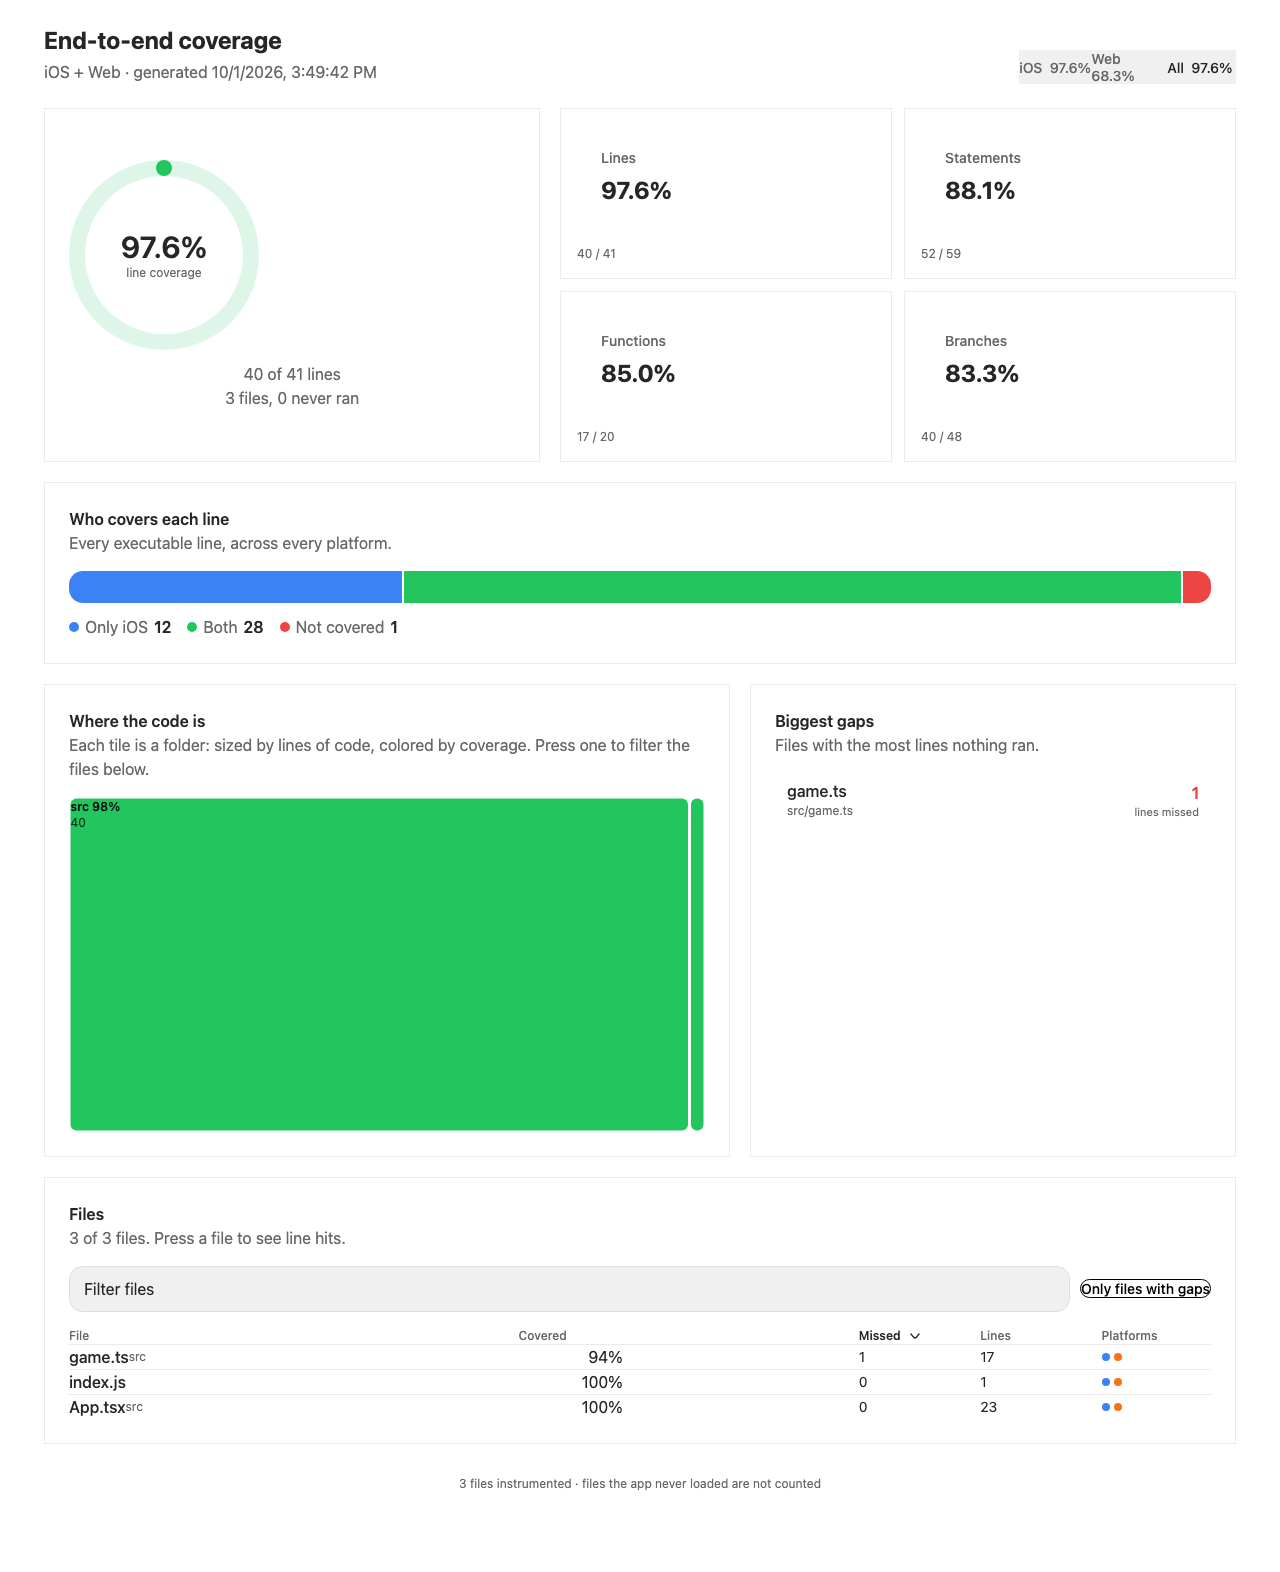
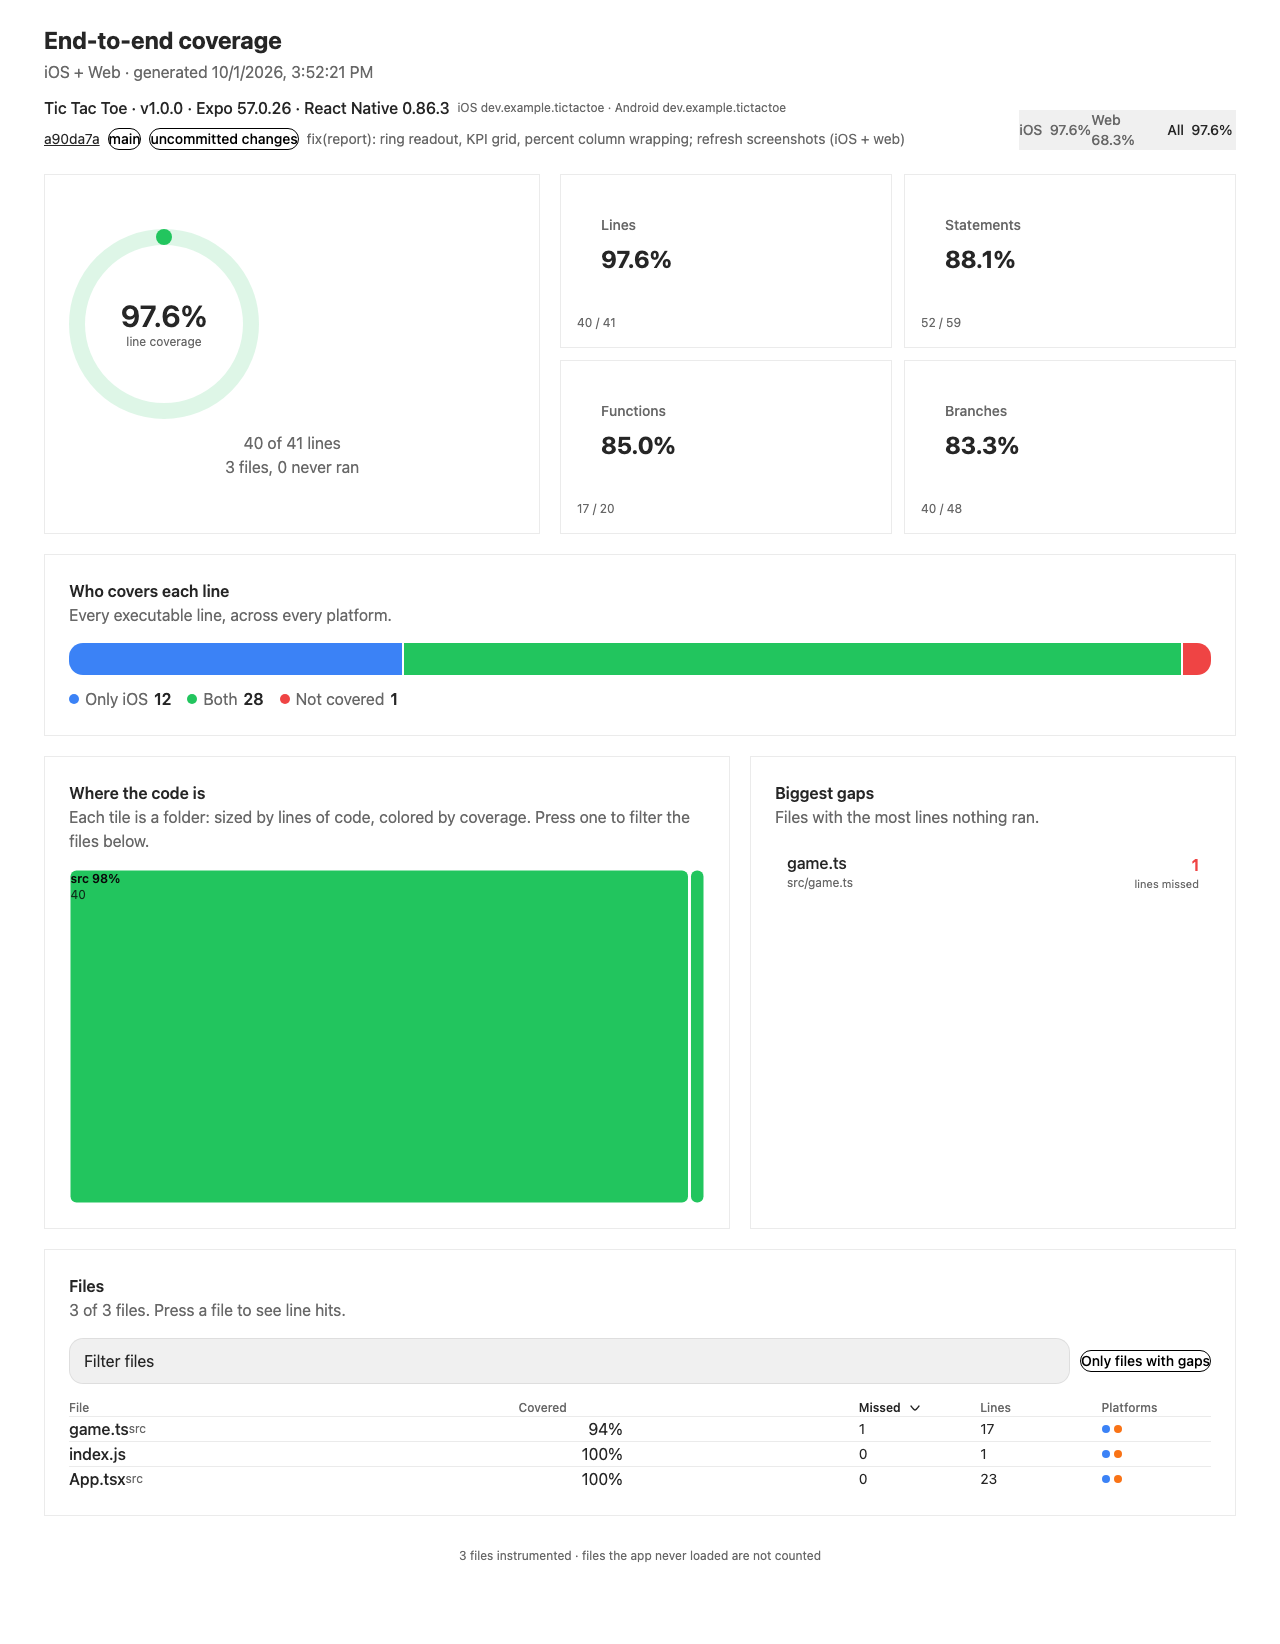
feat(report): show the Expo app and git commit in the header

diff --git a/packages/report/src/components/Header.tsx b/packages/report/src/components/Header.tsx
@@ -1,4 +1,5 @@
-import { View } from 'react-native';
+import { Linking, Pressable, View } from 'react-native';
+import { Chip } from 'panelui-native/components/chip';
 import { Tabs } from 'panelui-native/components/tabs';
 import { Text } from 'panelui-native/primitives/text';
 import { LABEL, pct, totals, visibleFiles } from '../lib/stats';
@@ -13,6 +14,7 @@ export function Header({ data, tab, onTab }: { data: CoverageData; tab: Tab; onT
         <Text className="mt-1 text-muted-foreground">
           {data.platforms.map((p) => LABEL[p]).join(' + ')} · generated {new Date(data.generated).toLocaleString()}
         </Text>
+        <Meta data={data} />
       </View>
       <Tabs value={tab} defaultValue={tab} onValueChange={(v) => onTab(v as Tab)}>
         <Tabs.List>
@@ -23,6 +25,38 @@ export function Header({ data, tab, onTab }: { data: CoverageData; tab: Tab; onT
           ))}
         </Tabs.List>
       </Tabs>
+    </View>
+  );
+}
+
+function Meta({ data }: { data: CoverageData }) {
+  const app = data.meta?.app;
+  const git = data.meta?.git;
+  if (!app && !git) return null;
+  const appBits = [app?.name, app?.version && `v${app.version}`, app?.expoSdk && `Expo ${app.expoSdk}`, app?.reactNative && `React Native ${app.reactNative}`].filter(Boolean);
+  const ids = [app?.ios && `iOS ${app.ios}`, app?.android && `Android ${app.android}`].filter(Boolean);
+  return (
+    <View className="mt-3 gap-2">
+      <View className="flex-row flex-wrap items-center gap-2">
+        {appBits.length > 0 && <Text className="font-medium text-foreground">{appBits.join(' · ')}</Text>}
+        {ids.length > 0 && <Text className="text-xs text-muted-foreground">{ids.join(' · ')}</Text>}
+      </View>
+      {git && (
+        <View className="flex-row flex-wrap items-center gap-2">
+          <Pressable disabled={!git.url} onPress={() => git.url && void Linking.openURL(git.url)} accessibilityRole={git.url ? 'link' : undefined}>
+            <Text className="font-mono text-sm text-foreground" style={git.url ? { textDecorationLine: 'underline' } : undefined}>
+              {git.short}
+            </Text>
+          </Pressable>
+          {git.branch && git.branch !== 'HEAD' && <Chip>{git.branch}</Chip>}
+          {git.dirty && <Chip>uncommitted changes</Chip>}
+          {git.subject && (
+            <Text className="text-sm text-muted-foreground" numberOfLines={1}>
+              {git.subject}
+            </Text>
+          )}
+        </View>
+      )}
     </View>
   );
 }

diff --git a/packages/expo-coverage/src/core/meta.ts b/packages/expo-coverage/src/core/meta.ts
@@ -1,0 +1,59 @@
+import { execFileSync } from 'node:child_process';
+import { existsSync, readFileSync } from 'node:fs';
+import { join } from 'node:path';
+import type { AppMeta, GitMeta, Meta } from './types';
+
+const json = (file: string): any => {
+  try {
+    return existsSync(file) ? JSON.parse(readFileSync(file, 'utf8')) : null;
+  } catch {
+    return null;
+  }
+};
+
+const git = (root: string, ...args: string[]): string | null => {
+  try {
+    return execFileSync('git', args, { cwd: root, encoding: 'utf8', stdio: ['ignore', 'pipe', 'ignore'] }).trim();
+  } catch {
+    return null;
+  }
+};
+
+/** `git@github.com:o/r.git` and `https://github.com/o/r.git` -> `https://github.com/o/r`. */
+export function webUrl(remote: string | null): string | null {
+  if (!remote) return null;
+  const m = /^(?:git@([^:]+):|https?:\/\/(?:[^@/]+@)?([^/]+)\/)(.+?)(?:\.git)?$/.exec(remote);
+  return m ? `https://${m[1] ?? m[2]}/${m[3]}` : null;
+}
+
+export function readApp(root: string): AppMeta | null {
+  const expo = json(join(root, 'app.json'))?.expo;
+  const pkg = json(join(root, 'package.json'));
+  if (!expo && !pkg) return null;
+  return {
+    name: expo?.name ?? pkg?.name ?? null,
+    slug: expo?.slug ?? null,
+    version: expo?.version ?? pkg?.version ?? null,
+    ios: expo?.ios?.bundleIdentifier ?? null,
+    android: expo?.android?.package ?? null,
+    expoSdk: json(join(root, 'node_modules/expo/package.json'))?.version ?? null,
+    reactNative: json(join(root, 'node_modules/react-native/package.json'))?.version ?? null,
+  };
+}
+
+export function readGit(root: string): GitMeta | null {
+  const env = process.env;
+  const sha = env.GITHUB_SHA ?? git(root, 'rev-parse', 'HEAD');
+  if (!sha) return null;
+  const repo = webUrl(env.GITHUB_REPOSITORY ? `https://github.com/${env.GITHUB_REPOSITORY}` : git(root, 'remote', 'get-url', 'origin'));
+  return {
+    sha,
+    short: sha.slice(0, 7),
+    branch: env.GITHUB_HEAD_REF || env.GITHUB_REF_NAME || git(root, 'rev-parse', '--abbrev-ref', 'HEAD'),
+    subject: git(root, 'log', '-1', '--pretty=%s'),
+    dirty: (git(root, 'status', '--porcelain', '--', '.') ?? '') !== '',
+    url: repo ? `${repo}/commit/${sha}` : null,
+  };
+}
+
+export const readMeta = (root: string): Meta => ({ app: readApp(root), git: readGit(root) });

diff --git a/packages/expo-coverage/test/core.test.ts b/packages/expo-coverage/test/core.test.ts
@@ -109,3 +109,18 @@ describe('report', () => {
     expect(html.match(/<\/script>/g)!.length).toBe(1);
   });
 });
+
+describe('meta', () => {
+  test('webUrl turns ssh and https remotes into a browsable url', async () => {
+    const { webUrl } = await import('../src/core/meta');
+    expect(webUrl('git@github.com:payready/expo-coverage.git')).toBe('https://github.com/payready/expo-coverage');
+    expect(webUrl('https://x-access-token@github.com/o/r.git')).toBe('https://github.com/o/r');
+    expect(webUrl(null)).toBeNull();
+  });
+
+  test('readApp reads app.json and package.json', async () => {
+    const { readApp } = await import('../src/core/meta');
+    const root = project({ 'app.json': JSON.stringify({ expo: { name: 'Demo', version: '1.2.3', ios: { bundleIdentifier: 'dev.x' } } }), 'package.json': '{"name":"pkg"}' });
+    expect(readApp(root)).toMatchObject({ name: 'Demo', version: '1.2.3', ios: 'dev.x', android: null });
+  });
+});

diff --git a/packages/expo-coverage/src/core/data.ts b/packages/expo-coverage/src/core/data.ts
@@ -3,6 +3,7 @@ import { extname, join, relative } from 'node:path';
 import { createHighlighter, type BundledLanguage } from 'shiki';
 import { coverageFile } from './paths';
 import { rehome } from './merge';
+import { readMeta } from './meta';
 import { PLATFORMS, type CoverageData, type FileEntry, type Platform, type Sums, type Tab, type Token } from './types';
 
 import { lineCoverage, mergeInto, summarize, type RawCoverage } from './istanbul';
@@ -78,5 +79,5 @@ export async function buildCoverageData(opts: BuildOptions): Promise<CoverageDat
     highlighter.dispose();
   }
 
-  return { title: opts.title ?? 'End-to-end coverage', generated: new Date().toISOString(), platforms: present, files, sources, palette };
+  return { title: opts.title ?? 'End-to-end coverage', meta: readMeta(root), generated: new Date().toISOString(), platforms: present, files, sources, palette };
 }

diff --git a/packages/report/src/lib/types.ts b/packages/report/src/lib/types.ts
@@ -22,7 +22,30 @@ export interface FileEntry {
 /** One highlighted token: its text and an index into `palette`. */
 export type Token = [text: string, color: number];
 
+export interface AppMeta {
+  name: string | null;
+  slug: string | null;
+  version: string | null;
+  ios: string | null;
+  android: string | null;
+  expoSdk: string | null;
+  reactNative: string | null;
+}
+export interface GitMeta {
+  sha: string;
+  short: string;
+  branch: string | null;
+  subject: string | null;
+  dirty: boolean;
+  url: string | null;
+}
+export interface Meta {
+  app: AppMeta | null;
+  git: GitMeta | null;
+}
+
 export interface CoverageData {
+  meta?: Meta;
   title: string;
   generated: string;
   platforms: Platform[];

diff --git a/packages/expo-coverage/src/core/types.ts b/packages/expo-coverage/src/core/types.ts
@@ -15,7 +15,29 @@ export interface FileEntry {
   sums: Partial<Record<Tab, Sums>>;
 }
 export type Token = [text: string, color: number];
+export interface AppMeta {
+  name: string | null;
+  slug: string | null;
+  version: string | null;
+  ios: string | null;
+  android: string | null;
+  expoSdk: string | null;
+  reactNative: string | null;
+}
+export interface GitMeta {
+  sha: string;
+  short: string;
+  branch: string | null;
+  subject: string | null;
+  dirty: boolean;
+  url: string | null;
+}
+export interface Meta {
+  app: AppMeta | null;
+  git: GitMeta | null;
+}
 export interface CoverageData {
+  meta?: Meta;
   title: string;
   generated: string;
   platforms: Platform[];
